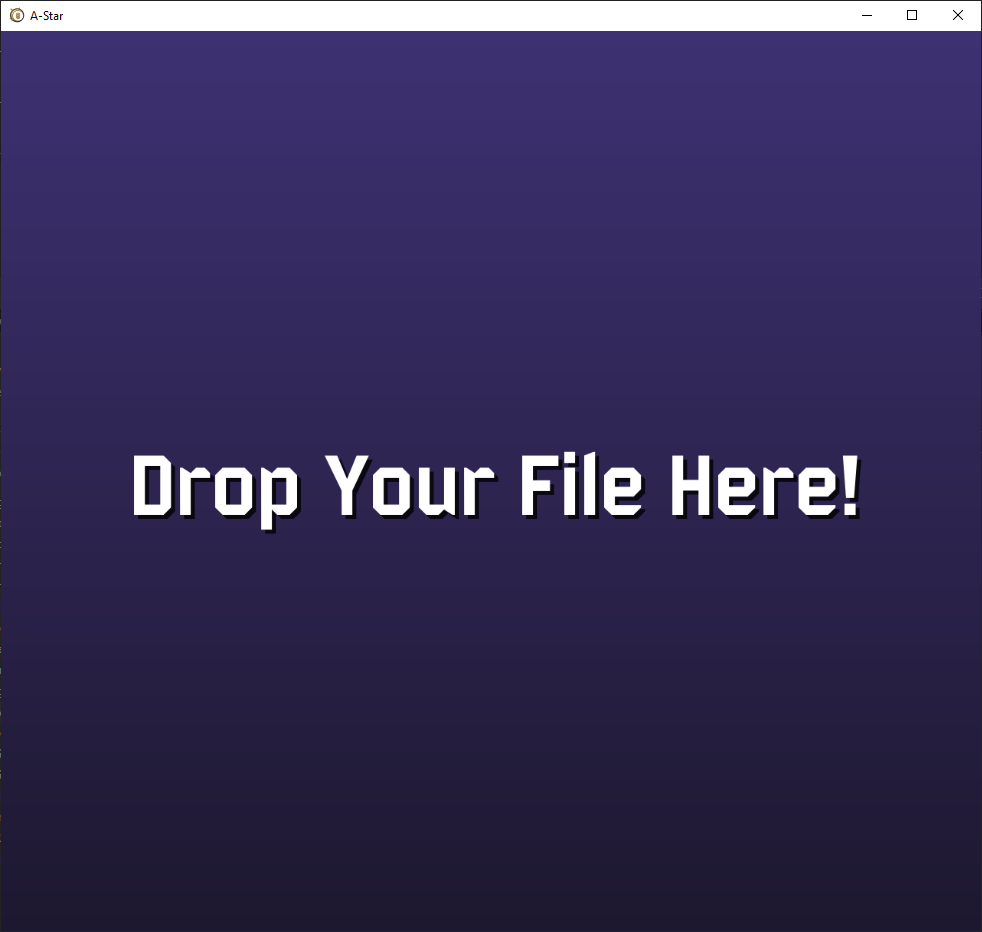
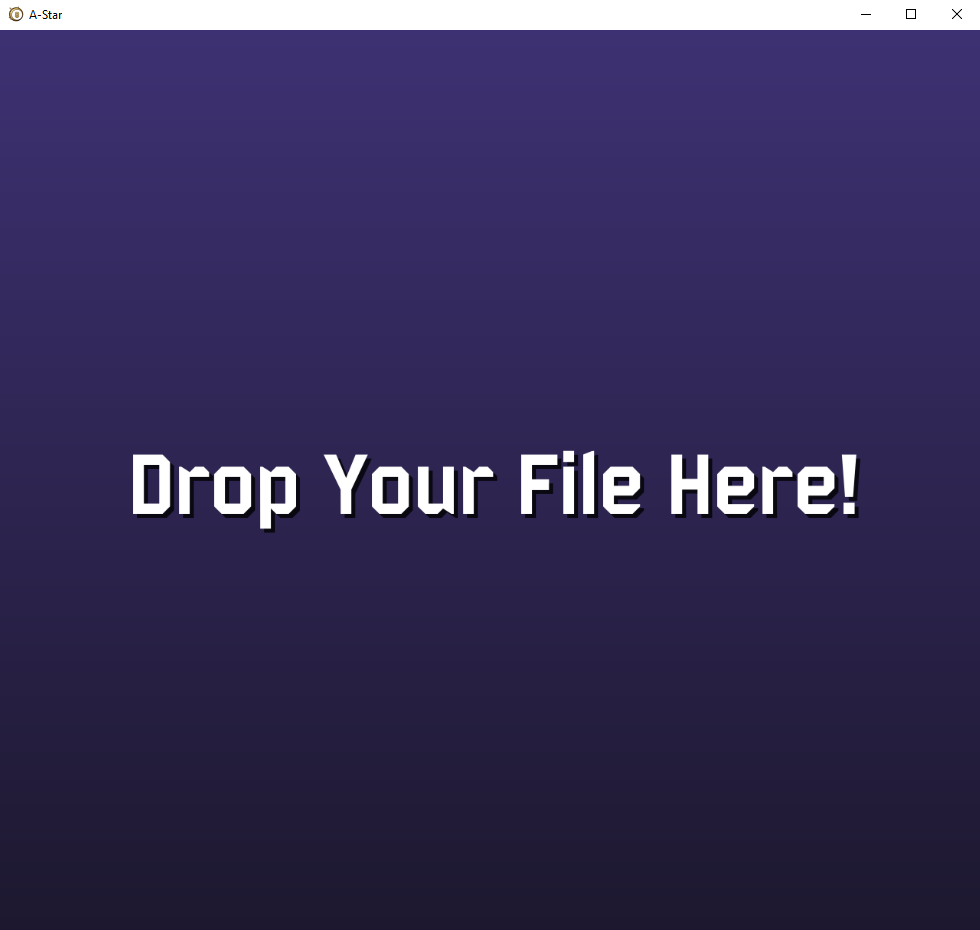
Just image changes

diff --git a/README.md b/README.md
@@ -49,8 +49,8 @@ The command "windres" is used to read the icon and output it in a binary format,
 ## Credits
 
 All the survivor images were taken from the [wiki](https://riskofrain2.fandom.com/wiki/Survivors) hosted on the website [Fandom](https://www.fandom.com/).\
-Here it is the link for the icon used as the base for the "reload button" here: <a href="https://www.flaticon.com/free-icons/reload" title="reload icons">Reload icons created by Royyan Wijaya - Flaticon</a>\
-Here it is the link for the icon used as the base for the "Ascending/Descending" here: <a href="https://www.flaticon.com/free-icons/ascending" title="ascending icons">Ascending icons created by yaicon - Flaticon</a>\
+The link for the icon used as base for the "reload button" here: <a href="https://www.flaticon.com/free-icons/reload" title="reload icons">Reload icons created by Royyan Wijaya - Flaticon</a>\
+The link for the icon used as base for the "Ascending/Descending" here: <a href="https://www.flaticon.com/free-icons/ascending" title="ascending icons">Ascending icons created by yaicon - Flaticon</a>\
 The font used for all the texts is called "BOMBARDIER", you can find it here: https://www.dafont.com/bombardier.font
 
 ## Raylib 